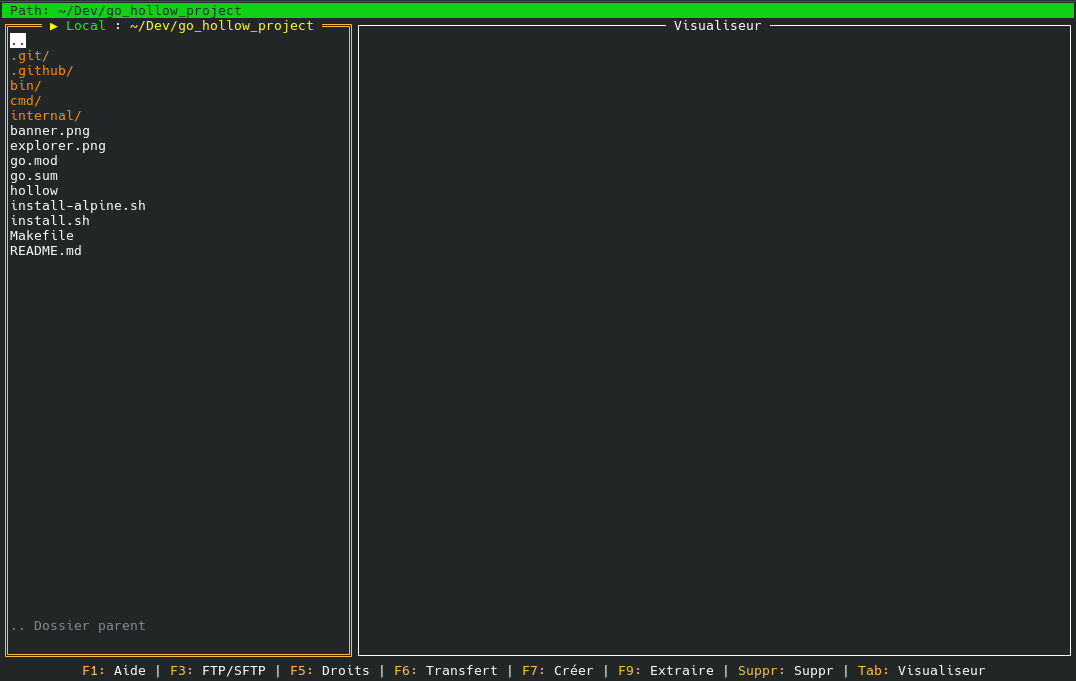
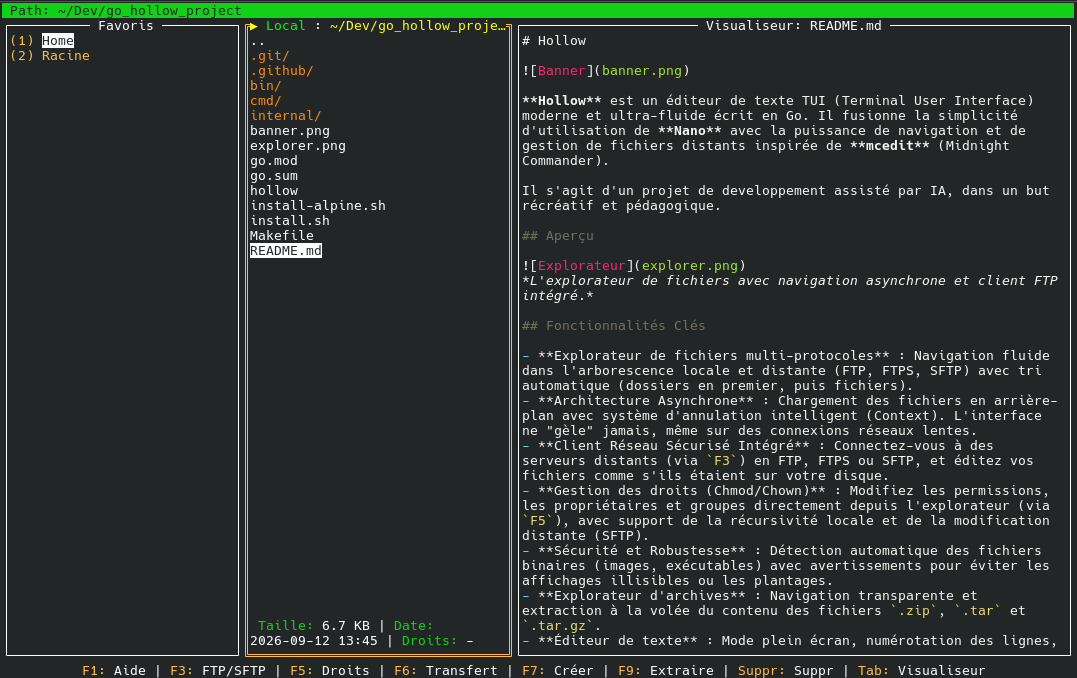
update explorer.png to reflect the new dual pane layout

diff --git a/README.md b/README.md
@@ -4,7 +4,7 @@
 
 **Hollow** est un éditeur de texte TUI (Terminal User Interface) moderne et ultra-fluide écrit en Go. Il fusionne la simplicité d'utilisation de **Nano** avec la puissance de navigation et de gestion de fichiers distants inspirée de **mcedit** (Midnight Commander).
 
-Il s'agit d'un projet de developpement assisté par IA, dans un but récréatif et pédagogique.
+Il s'agit d'un projet de developpement assisté par IA, dans un but récréatif, pédagogique et formateur.
 
 ## Aperçu
 
